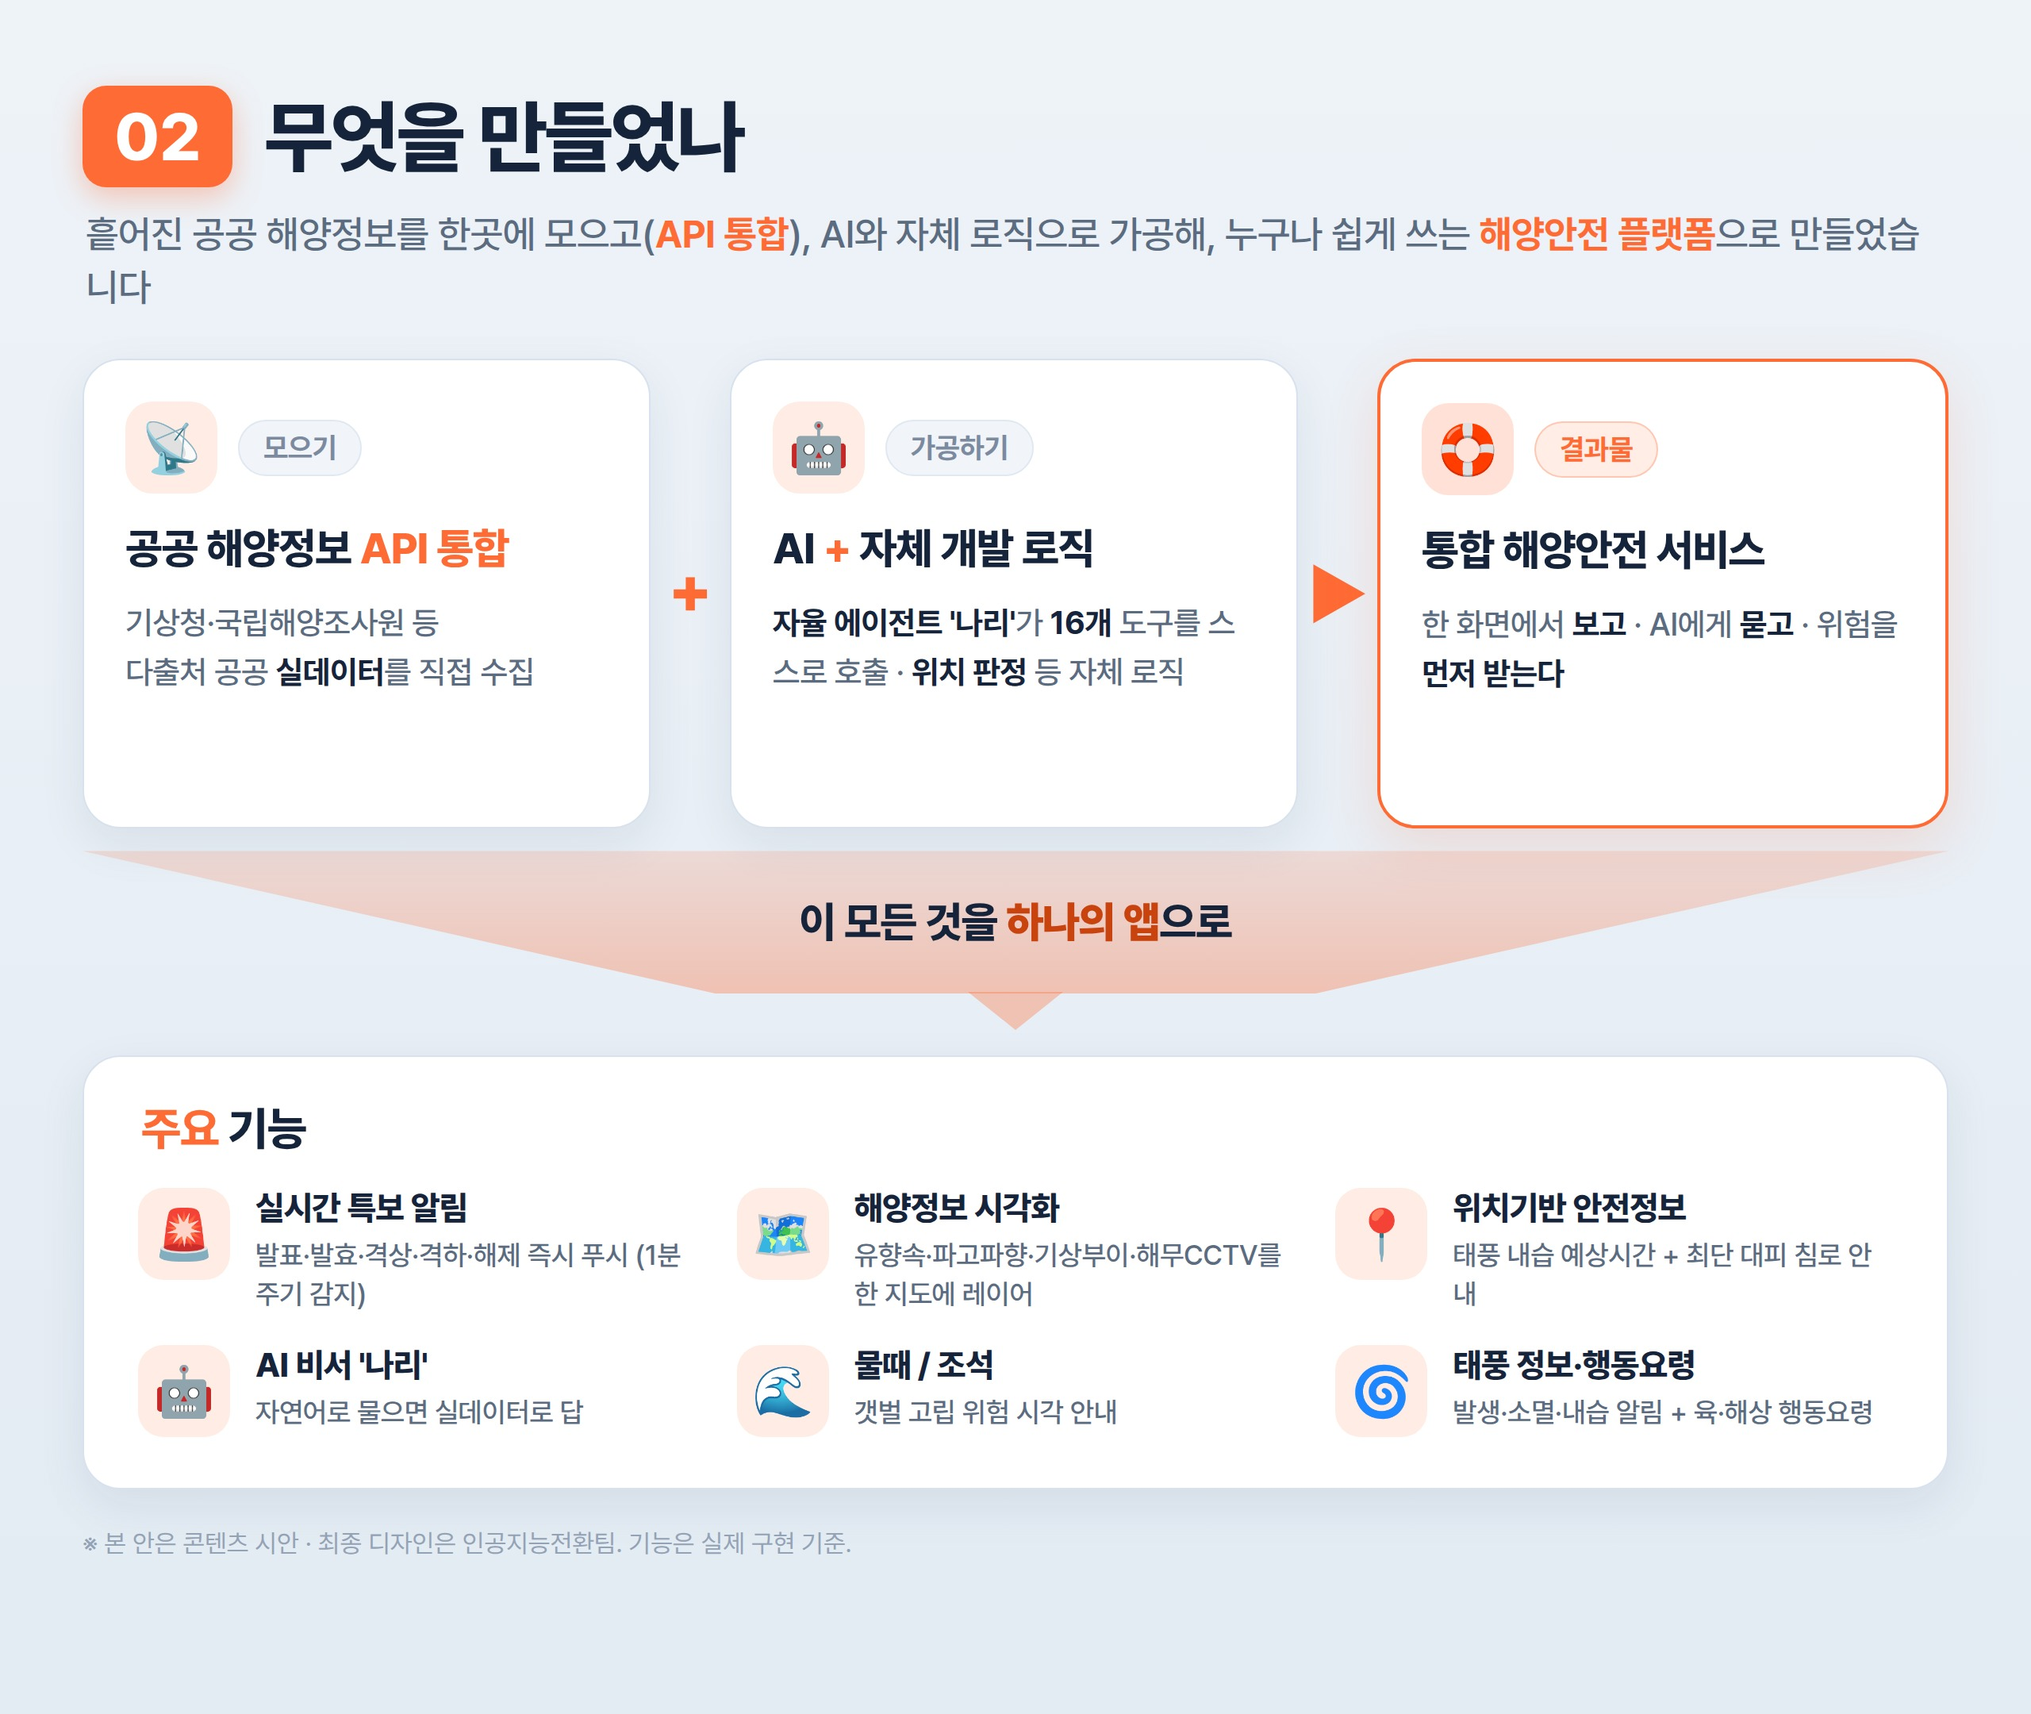
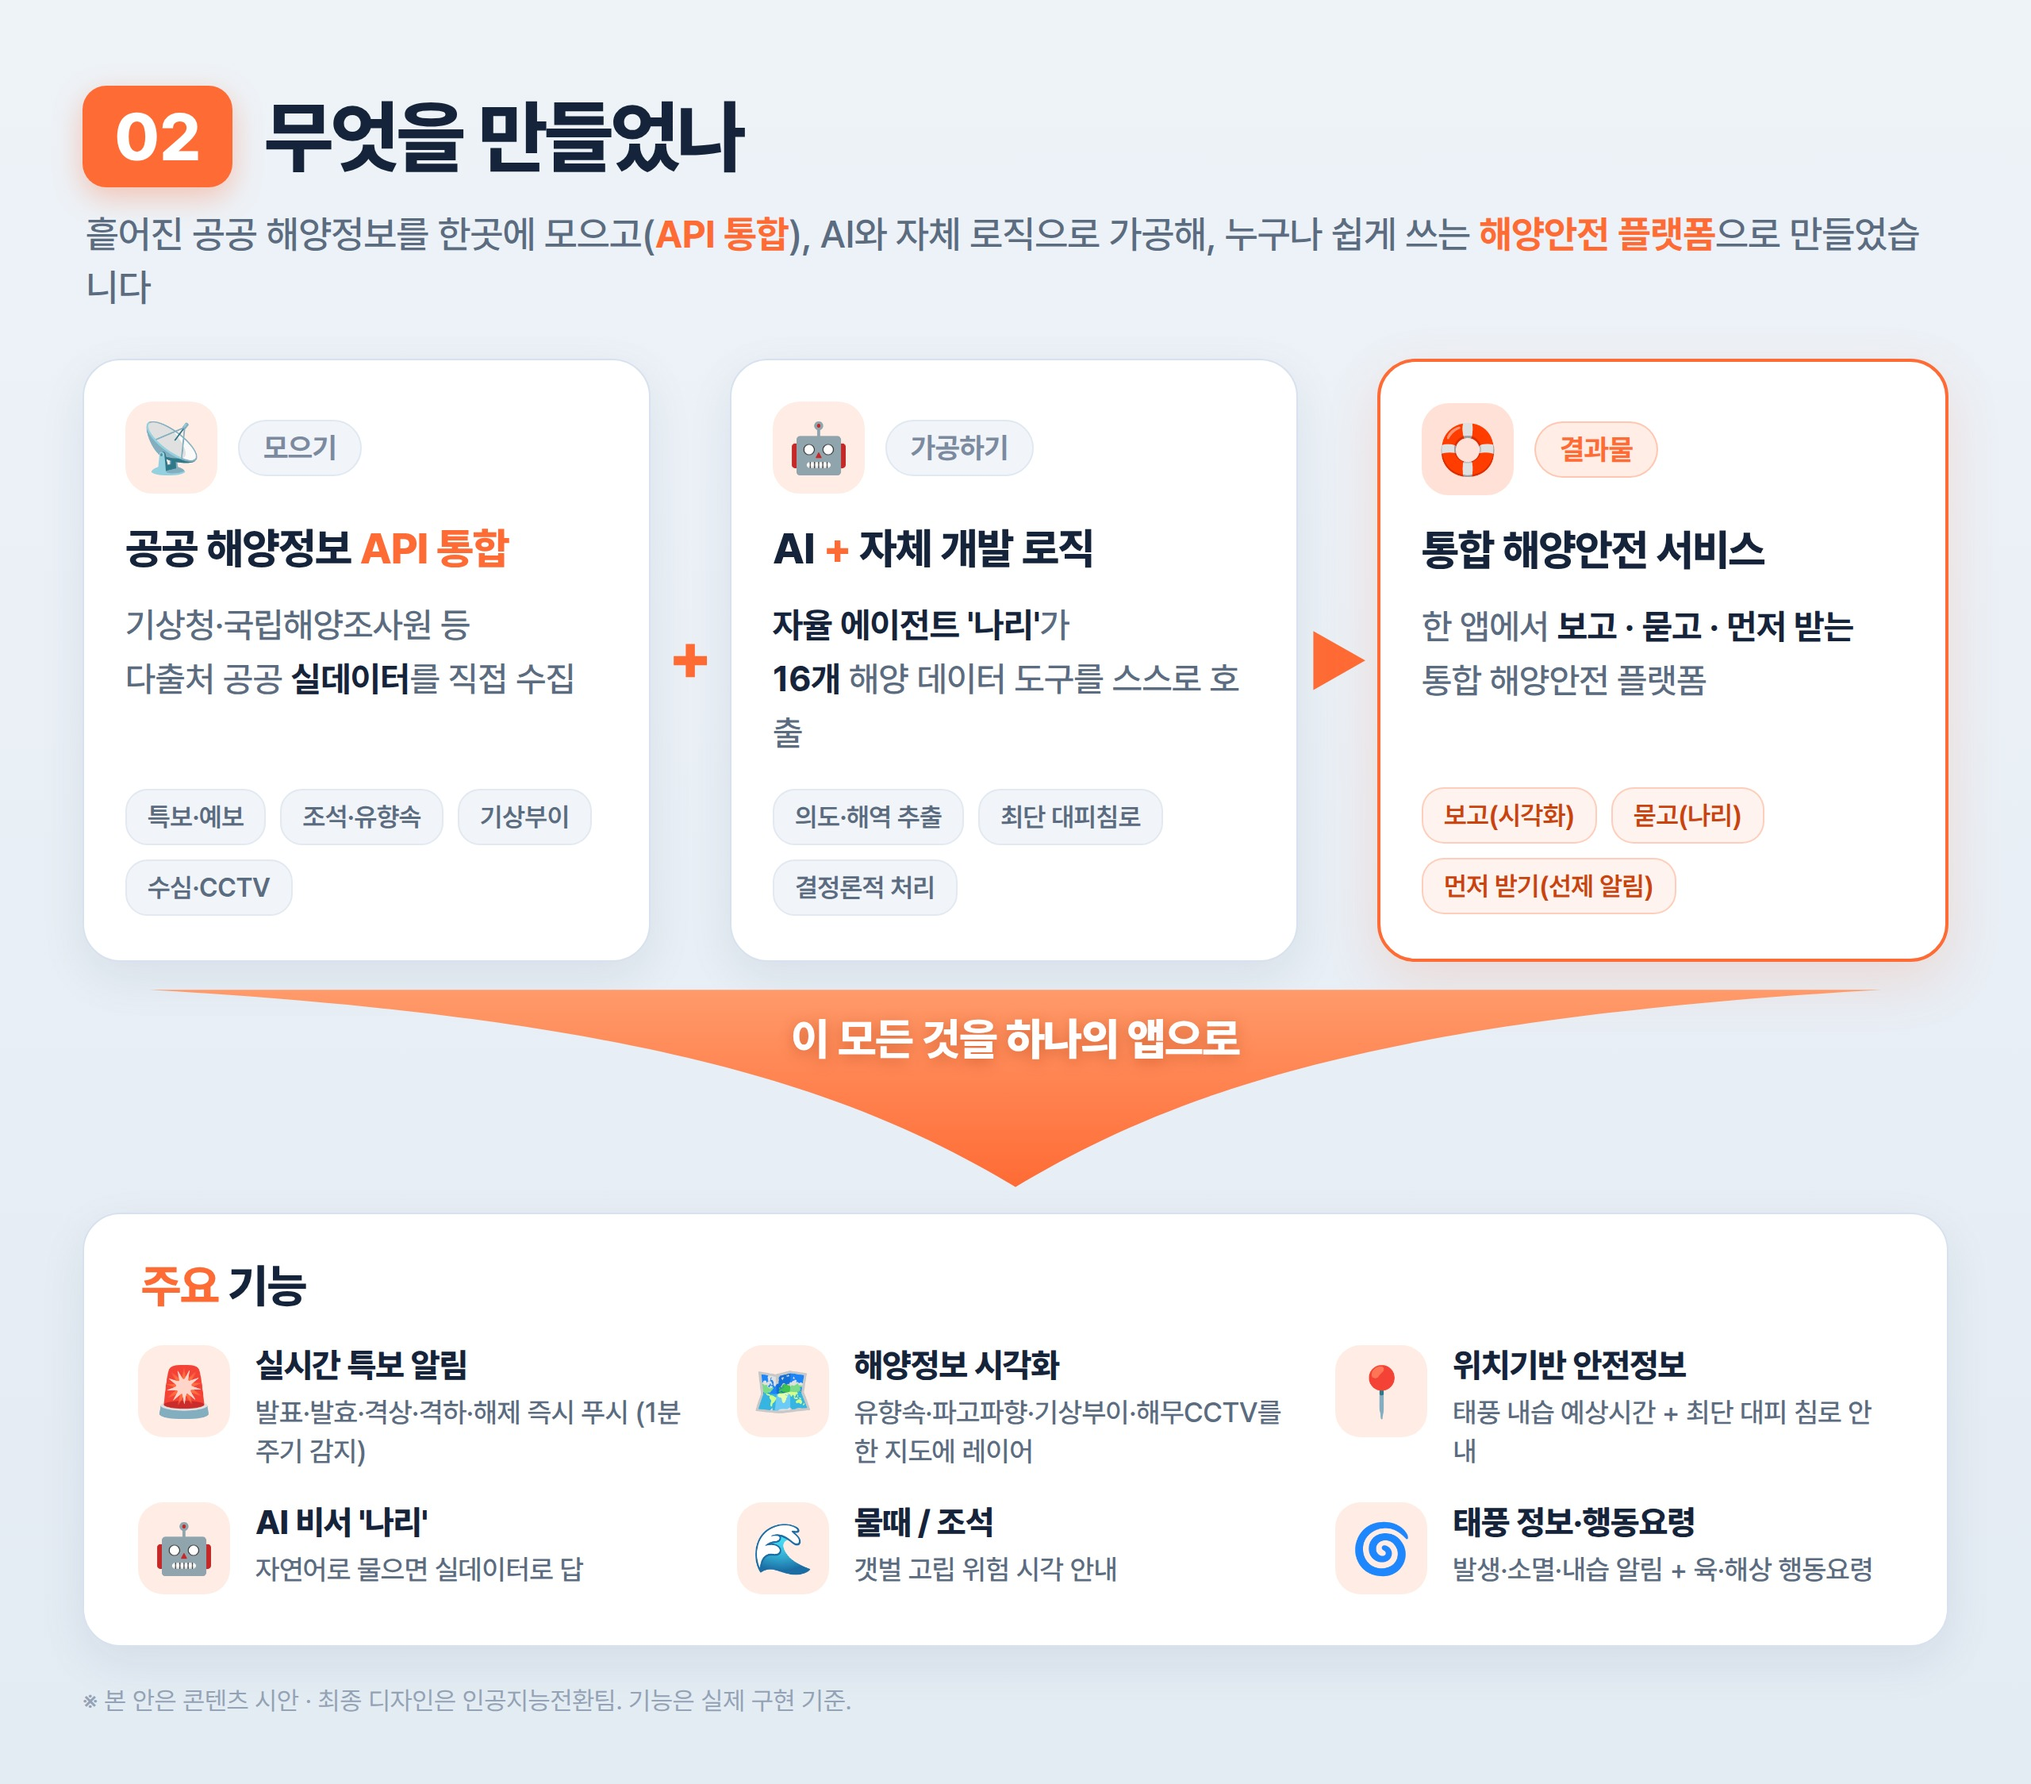
feat(formboard): 01 엇갈림 배치 / 02 박스 강화·곡선 화살표
01 why2:
- 박스1을 '기존(좌상) → 현재(우하)' 엇갈림 배치로, 현재값 크게 강조

02 what:
- 상단 3박스 본문 글씨 키우고 태그칩 추가로 하단 여백 활용
- 중앙 연결을 image2 느낌의 부드러운 곡선 하향 화살표(SVG)로 교체

Claude-Session: https://claude.ai/code/session_01NPSXCfcq7AeQ1foaBkT7hE

diff --git a/keynote_seagnal/formboard_what.html b/keynote_seagnal/formboard_what.html
@@ -22,17 +22,18 @@ html,body{font-family:'Pretendard',sans-serif;-webkit-font-smoothing:antialiased
 .fbox.res .fstep{background:rgba(255,107,53,.12);border-color:rgba(255,107,53,.3);color:#FF6B35;}
 .ftt{color:#15243a;font-size:27px;font-weight:800;letter-spacing:-.02em;margin:4px 0 14px;line-height:1.25;}
 .ftt .o{color:#FF6B35;}
-.fdesc{color:#5b6b80;font-size:20px;font-weight:500;line-height:1.55;letter-spacing:-.01em;}
+.fdesc{color:#5b6b80;font-size:22px;font-weight:500;line-height:1.55;letter-spacing:-.01em;}
 .fdesc b{color:#15243a;font-weight:700;}
 .fdesc .o{color:#FF6B35;font-weight:700;}
+.ftags{display:flex;flex-wrap:wrap;gap:9px;margin-top:auto;padding-top:18px;align-self:stretch;}
+.ftag{background:#f1f5fa;border:1px solid #e3e9f1;border-radius:14px;padding:7px 13px;color:#5b6b80;font-size:16.5px;font-weight:600;letter-spacing:-.01em;}
+.fbox.res .ftag{background:rgba(255,107,53,.08);border-color:rgba(255,107,53,.28);color:#C9430E;}
 .conn{flex:0 0 50px;display:flex;align-items:center;justify-content:center;color:#FF6B35;font-size:42px;font-weight:800;}
 
-/* ── 중앙: 아래로 좁아지는 깔때기(넓은 화살표) ── */
-.funnel{margin:14px 0 16px;}
-.fbody{height:90px;background:linear-gradient(180deg,rgba(255,107,53,.16),rgba(255,107,53,.34));clip-path:polygon(0 0,100% 0,66% 100%,34% 100%);display:flex;align-items:center;justify-content:center;}
-.fbody span{color:#15243a;font-size:27px;font-weight:800;letter-spacing:-.02em;}
-.fbody span b{color:#C9430E;}
-.ftip{width:0;height:0;margin:-1px auto 0;border-left:30px solid transparent;border-right:30px solid transparent;border-top:24px solid rgba(255,107,53,.34);}
+/* ── 중앙: 아래로 향하는 곡선 화살표 (부드러운 스웨이) ── */
+.funnel{position:relative;width:100%;height:138px;margin:8px 0 12px;}
+.funnel svg{position:absolute;inset:0;width:100%;height:100%;display:block;}
+.funnel .ftext{position:absolute;left:0;right:0;top:24px;text-align:center;color:#fff;font-size:28px;font-weight:800;letter-spacing:-.02em;text-shadow:0 2px 9px rgba(160,50,10,.4);}
 
 /* ── 하단: 넓은 박스(주요 기능) ── */
 .wide{padding:28px 34px 32px;}
@@ -55,6 +56,7 @@ html,body{font-family:'Pretendard',sans-serif;-webkit-font-smoothing:antialiased
      <div class="fhead"><div class="ficon">📡</div><span class="fstep">모으기</span></div>
      <div class="ftt">공공 해양정보 <span class="o">API 통합</span></div>
      <div class="fdesc">기상청·국립해양조사원 등<br>다출처 공공 <b>실데이터</b>를 직접 수집</div>
+     <div class="ftags"><span class="ftag">특보·예보</span><span class="ftag">조석·유향속</span><span class="ftag">기상부이</span><span class="ftag">수심·CCTV</span></div>
    </div>
 
    <div class="conn">＋</div>
@@ -62,7 +64,8 @@ html,body{font-family:'Pretendard',sans-serif;-webkit-font-smoothing:antialiased
    <div class="cardbox fbox">
      <div class="fhead"><div class="ficon">🤖</div><span class="fstep">가공하기</span></div>
      <div class="ftt">AI <span class="o">+</span> 자체 개발 로직</div>
-     <div class="fdesc"><b>자율 에이전트 '나리'</b>가 <b>16개</b> 도구를 스스로 호출 · <b>위치 판정</b> 등 자체 로직</div>
+     <div class="fdesc"><b>자율 에이전트 '나리'</b>가<br><b>16개</b> 해양 데이터 도구를 스스로 호출</div>
+     <div class="ftags"><span class="ftag">의도·해역 추출</span><span class="ftag">최단 대피침로</span><span class="ftag">결정론적 처리</span></div>
    </div>
 
    <div class="conn">▶</div>
@@ -70,14 +73,18 @@ html,body{font-family:'Pretendard',sans-serif;-webkit-font-smoothing:antialiased
    <div class="cardbox fbox res">
      <div class="fhead"><div class="ficon">🛟</div><span class="fstep">결과물</span></div>
      <div class="ftt">통합 해양안전 서비스</div>
-     <div class="fdesc">한 화면에서 <b>보고</b> · AI에게 <b>묻고</b> · 위험을 <b>먼저 받는다</b></div>
+     <div class="fdesc">한 앱에서 <b>보고 · 묻고 · 먼저 받는</b><br>통합 해양안전 플랫폼</div>
+     <div class="ftags"><span class="ftag">보고(시각화)</span><span class="ftag">묻고(나리)</span><span class="ftag">먼저 받기(선제 알림)</span></div>
    </div>
  </div>
 
- <!-- 중앙: 깔때기(넓은 화살표) -->
+ <!-- 중앙: 아래로 향하는 곡선 화살표 -->
  <div class="funnel">
-   <div class="fbody"><span>이 모든 것을 <b>하나의 앱</b>으로</span></div>
-   <div class="ftip"></div>
+   <svg viewBox="0 0 1000 200" preserveAspectRatio="none">
+     <defs><linearGradient id="fgrad" x1="0" y1="0" x2="0" y2="1"><stop offset="0" stop-color="#FF9A6A"/><stop offset="1" stop-color="#FF6B35"/></linearGradient></defs>
+     <path d="M36,14 L964,14 C700,40 588,104 500,194 C412,104 300,40 36,14 Z" fill="url(#fgrad)"/>
+   </svg>
+   <div class="ftext">이 모든 것을 <b>하나의 앱</b>으로</div>
  </div>
 
  <!-- 하단: 넓은 박스(주요 기능) -->

diff --git a/keynote_seagnal/formboard_why2.html b/keynote_seagnal/formboard_why2.html
@@ -14,16 +14,20 @@ html,body{font-family:'Pretendard',sans-serif;-webkit-font-smoothing:antialiased
 .ctt .o{color:#FF6B35;}
 .top{display:flex;gap:28px;align-items:stretch;margin-bottom:28px;}
 
-/* 박스1: 3행 가로 before→after — 행을 세로로 고르게 채워 하단 여백 제거 */
-.minfo{flex:1;display:flex;flex-direction:column;justify-content:space-evenly;margin-top:18px;}
-.mrow{display:flex;align-items:center;gap:16px;padding:14px 2px;border-bottom:1px solid #eef2f7;}
+/* 박스1: 3행 — 기존(좌상) → 현재(우하) 엇갈림 배치로 여백 활용 */
+.minfo{flex:1;display:flex;flex-direction:column;justify-content:space-evenly;margin-top:12px;}
+.mrow{display:flex;flex-direction:column;gap:8px;padding:15px 4px;border-bottom:1px solid #eef2f7;}
 .mrow:last-child{border-bottom:none;}
-.mlbl{flex:0 0 156px;text-align:center;background:#f1f5fa;border:1px solid #e0e8f1;border-radius:22px;padding:11px 0;color:#34465c;font-size:21px;font-weight:700;white-space:nowrap;}
-.mvals{flex:1;display:flex;align-items:baseline;justify-content:center;gap:14px;}
-.mbefore{color:#5b6b80;font-size:29px;font-weight:800;letter-spacing:-.03em;white-space:nowrap;}
-.marr{color:#FF6B35;font-size:24px;font-weight:800;}
-.mafter{color:#FF6B35;font-size:36px;font-weight:800;letter-spacing:-.035em;white-space:nowrap;}
-.myr{font-size:15px;font-weight:700;color:#9aa8bb;margin-left:3px;}
+.mtop{display:flex;align-items:center;gap:14px;}
+.mlbl{flex:0 0 150px;text-align:center;background:#f1f5fa;border:1px solid #e0e8f1;border-radius:22px;padding:10px 0;color:#34465c;font-size:20px;font-weight:700;white-space:nowrap;}
+.mbefore{color:#8a98ab;font-size:26px;font-weight:700;letter-spacing:-.02em;white-space:nowrap;}
+.mbefore .tag{color:#aab6c6;font-size:16px;font-weight:600;margin-right:7px;}
+.mbefore .myr{font-size:14px;font-weight:600;color:#aab6c6;margin-left:3px;}
+.mbot{display:flex;align-items:baseline;justify-content:flex-end;gap:10px;padding-right:16px;}
+.marr{color:#FF6B35;font-size:26px;font-weight:800;}
+.mafter{color:#FF6B35;font-size:44px;font-weight:800;letter-spacing:-.04em;white-space:nowrap;}
+.mafter .tag{color:#FF8A50;font-size:18px;font-weight:700;margin-right:8px;letter-spacing:-.01em;}
+.mafter .myr{font-size:17px;font-weight:700;color:#FF8A50;margin-left:4px;}
 
 /* 박스2: 방사형 — 컨테이너=SVG=노드 좌표계 모두 460x430 고정(정렬 보장) */
 .radial{position:relative;width:460px;height:430px;margin:10px auto 0;}
@@ -53,16 +57,16 @@ html,body{font-family:'Pretendard',sans-serif;-webkit-font-smoothing:antialiased
      <div class="ctt">해양 활동 인구는 <span class="o">매년 증가</span></div>
      <div class="minfo">
        <div class="mrow">
-         <span class="mlbl">낚시 인구</span>
-         <span class="mvals"><span class="mbefore">850만<span class="myr">’18</span></span><span class="marr">→</span><span class="mafter">1,000만<span class="myr">’24</span></span></span>
+         <div class="mtop"><span class="mlbl">낚시 인구</span><span class="mbefore"><span class="tag">기존</span>850만<span class="myr">’18</span></span></div>
+         <div class="mbot"><span class="marr">→</span><span class="mafter"><span class="tag">현재</span>1,000만<span class="myr">’24</span></span></div>
        </div>
        <div class="mrow">
-         <span class="mlbl">수상레저 면허</span>
-         <span class="mvals"><span class="mbefore">11.1만<span class="myr">’11</span></span><span class="marr">→</span><span class="mafter">28.7만<span class="myr">’21</span></span></span>
+         <div class="mtop"><span class="mlbl">수상레저 면허</span><span class="mbefore"><span class="tag">기존</span>11.1만<span class="myr">’11</span></span></div>
+         <div class="mbot"><span class="marr">→</span><span class="mafter"><span class="tag">현재</span>28.7만<span class="myr">’21</span></span></div>
        </div>
        <div class="mrow">
-         <span class="mlbl">해수욕장 이용객</span>
-         <span class="mvals"><span class="mbefore">3,800만<span class="myr">’23</span></span><span class="marr">→</span><span class="mafter">4,110만<span class="myr">’24</span></span></span>
+         <div class="mtop"><span class="mlbl">해수욕장 이용객</span><span class="mbefore"><span class="tag">기존</span>3,800만<span class="myr">’23</span></span></div>
+         <div class="mbot"><span class="marr">→</span><span class="mafter"><span class="tag">현재</span>4,110만<span class="myr">’24</span></span></div>
        </div>
      </div>
    </div>
